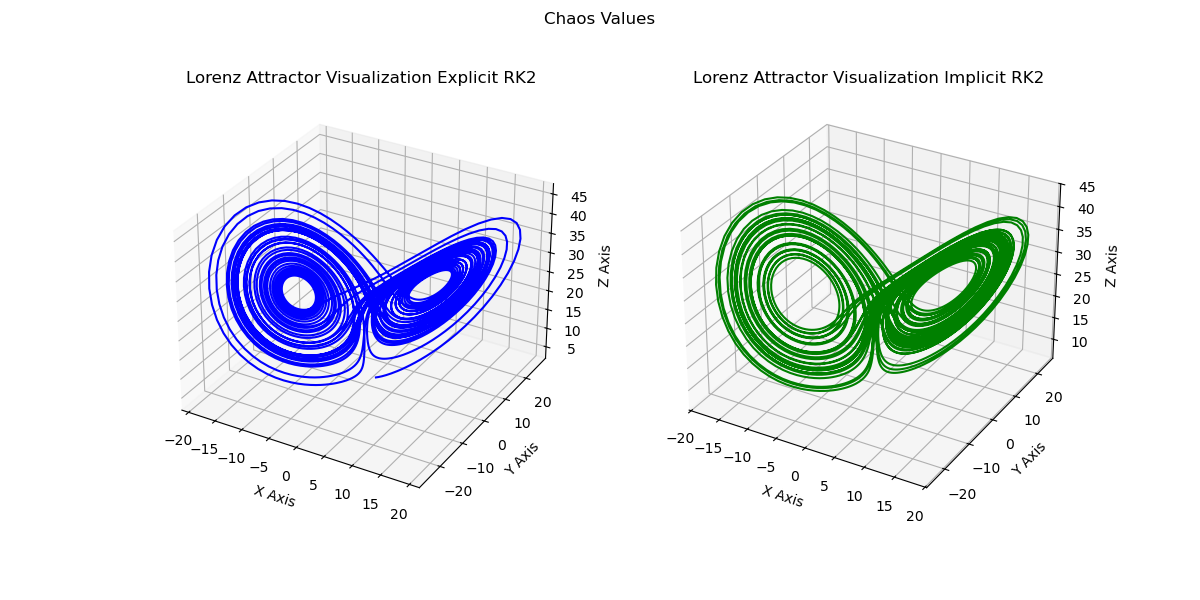
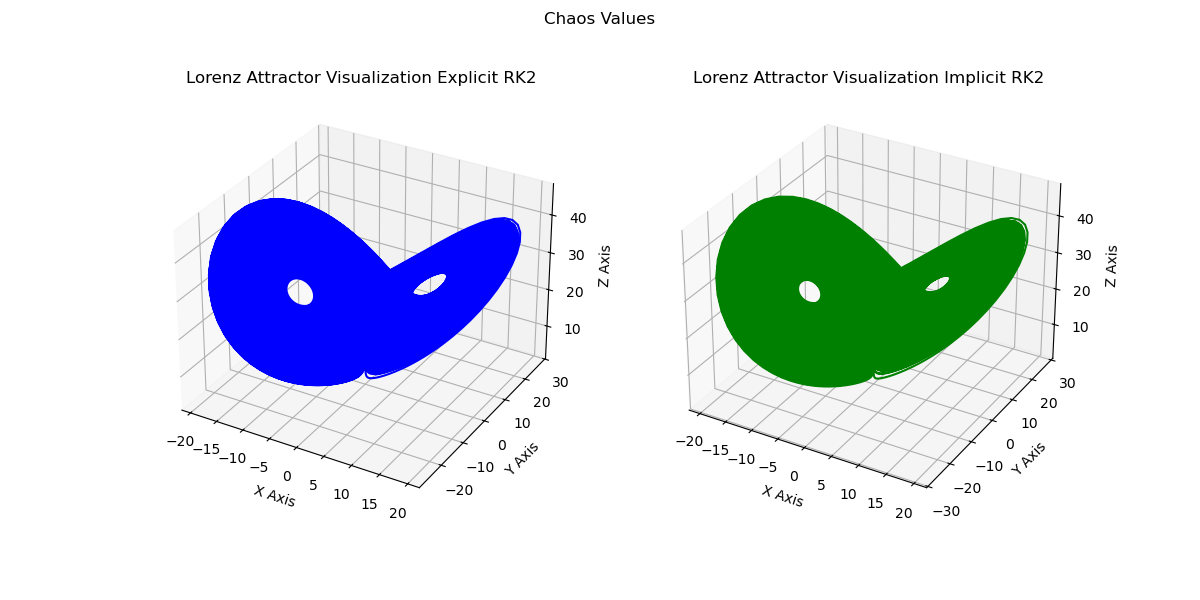
optimized with numba

diff --git a/plotsNumba.py b/plotsNumba.py
@@ -1,0 +1,103 @@
+import matplotlib
+matplotlib.use("TkAgg")
+
+import matplotlib.pyplot as plt
+import numpy as np
+from numba import njit
+from rk_methods import explicit_rk2, implicit_rk2
+
+
+@njit
+def run_explicit_rk2(x0, y0, z0, sigma, rho, beta, dt, number_of_steps):
+    x_values = np.empty(number_of_steps)
+    y_values = np.empty(number_of_steps)
+    z_values = np.empty(number_of_steps)
+
+    x = x0
+    y = y0
+    z = z0
+
+    for i in range(number_of_steps):
+        x, y, z = explicit_rk2(x, y, z, sigma, rho, beta, dt)
+
+        x_values[i] = x
+        y_values[i] = y
+        z_values[i] = z
+
+    return x_values, y_values, z_values
+
+
+@njit
+def run_implicit_rk2(x0, y0, z0, sigma, rho, beta, dt, number_of_steps):
+    x_values = np.empty(number_of_steps)
+    y_values = np.empty(number_of_steps)
+    z_values = np.empty(number_of_steps)
+
+    x = x0
+    y = y0
+    z = z0
+
+    for i in range(number_of_steps):
+        x, y, z = implicit_rk2(x, y, z, sigma, rho, beta, dt)
+
+        x_values[i] = x
+        y_values[i] = y
+        z_values[i] = z
+
+    return x_values, y_values, z_values
+
+
+def make_plot(sigma, rho, beta, title, filename):
+    x0 = 1.0
+    y0 = 2.0
+    z0 = 3.0
+
+    dt = 0.01
+    t_final = 50
+    number_of_steps = int(t_final / dt)
+
+    x_exp, y_exp, z_exp = run_explicit_rk2(
+        x0, y0, z0, sigma, rho, beta, dt, number_of_steps
+    )
+
+    x_imp, y_imp, z_imp = run_implicit_rk2(
+        x0, y0, z0, sigma, rho, beta, dt, number_of_steps
+    )
+
+    fig = plt.figure(figsize=(12, 6))
+    fig.suptitle(title)
+
+    stableE = fig.add_subplot(121, projection="3d")
+    stableE.plot(x_exp, y_exp, z_exp, color="blue", label="Lorenz Attractor")
+    stableE.set_title("Lorenz Attractor Visualization Explicit RK2")
+    stableE.set_xlabel("X Axis")
+    stableE.set_ylabel("Y Axis")
+    stableE.set_zlabel("Z Axis")
+
+    stableI = fig.add_subplot(122, projection="3d")
+    stableI.plot(x_imp, y_imp, z_imp, color="green", label="Lorenz Attractor")
+    stableI.set_title("Lorenz Attractor Visualization Implicit RK2")
+    stableI.set_xlabel("X Axis")
+    stableI.set_ylabel("Y Axis")
+    stableI.set_zlabel("Z Axis")
+
+    plt.savefig(filename)
+
+
+make_plot(
+    sigma=10.0,
+    rho=14.0,
+    beta=8.0 / 3.0,
+    title="Stable Values",
+    filename="lorenz_plot_stable.png"
+)
+
+make_plot(
+    sigma=10.0,
+    rho=28.0,
+    beta=8.0 / 3.0,
+    title="Chaos Values",
+    filename="lorenz_plot_chaos.png"
+)
+
+plt.show()

diff --git a/rk_methods.py b/rk_methods.py
@@ -1,6 +1,8 @@
 from euler_method import euler
-from lorenz import lorenz 
+from lorenz import lorenz
+from numba import njit
 
+@njit
 def explicit_rk2(x0, y0, z0, sigma, rho, beta, h):
     #k1 = f(current point)
     #predictor = current point + h*k1
@@ -21,6 +23,7 @@ def explicit_rk2(x0, y0, z0, sigma, rho, beta, h):
 # 4. use slope to compute better xyz
 # 5. repeat
 
+@njit
 def implicit_rk2(x0, y0, z0, sigma, rho, beta, h):
     #future point = current point + h*f(midpoint)
     #midpoint = (current point + future point)/2
@@ -43,7 +46,7 @@ def implicit_rk2(x0, y0, z0, sigma, rho, beta, h):
     return x, y, z
 
 
-
+@njit
 def explicit_rk4(x0, y0, z0, sigma, rho, beta, h):
     k1_x, k1_y, k1_z = lorenz(x0, y0, z0, sigma, rho, beta)
     euler_x1 = x0 + k1_x * h / 2

diff --git a/euler_method.py b/euler_method.py
@@ -1,6 +1,7 @@
-
+from numba import njit
 from lorenz import lorenz
 
+@njit
 def euler(x0, y0, z0, sigma, rho, beta, h):
     k1_x, k1_y, k1_z = lorenz(x0, y0, z0, sigma, rho, beta)
     x = x0 + k1_x * h

diff --git a/lorenz.py b/lorenz.py
@@ -1,5 +1,7 @@
 import numpy as np
+from numba import njit
 
+@njit
 def lorenz(x, y, z, sigma, rho, beta):
     dx_dt = sigma * (y - x)
     dy_dt = x * (rho - z) - y